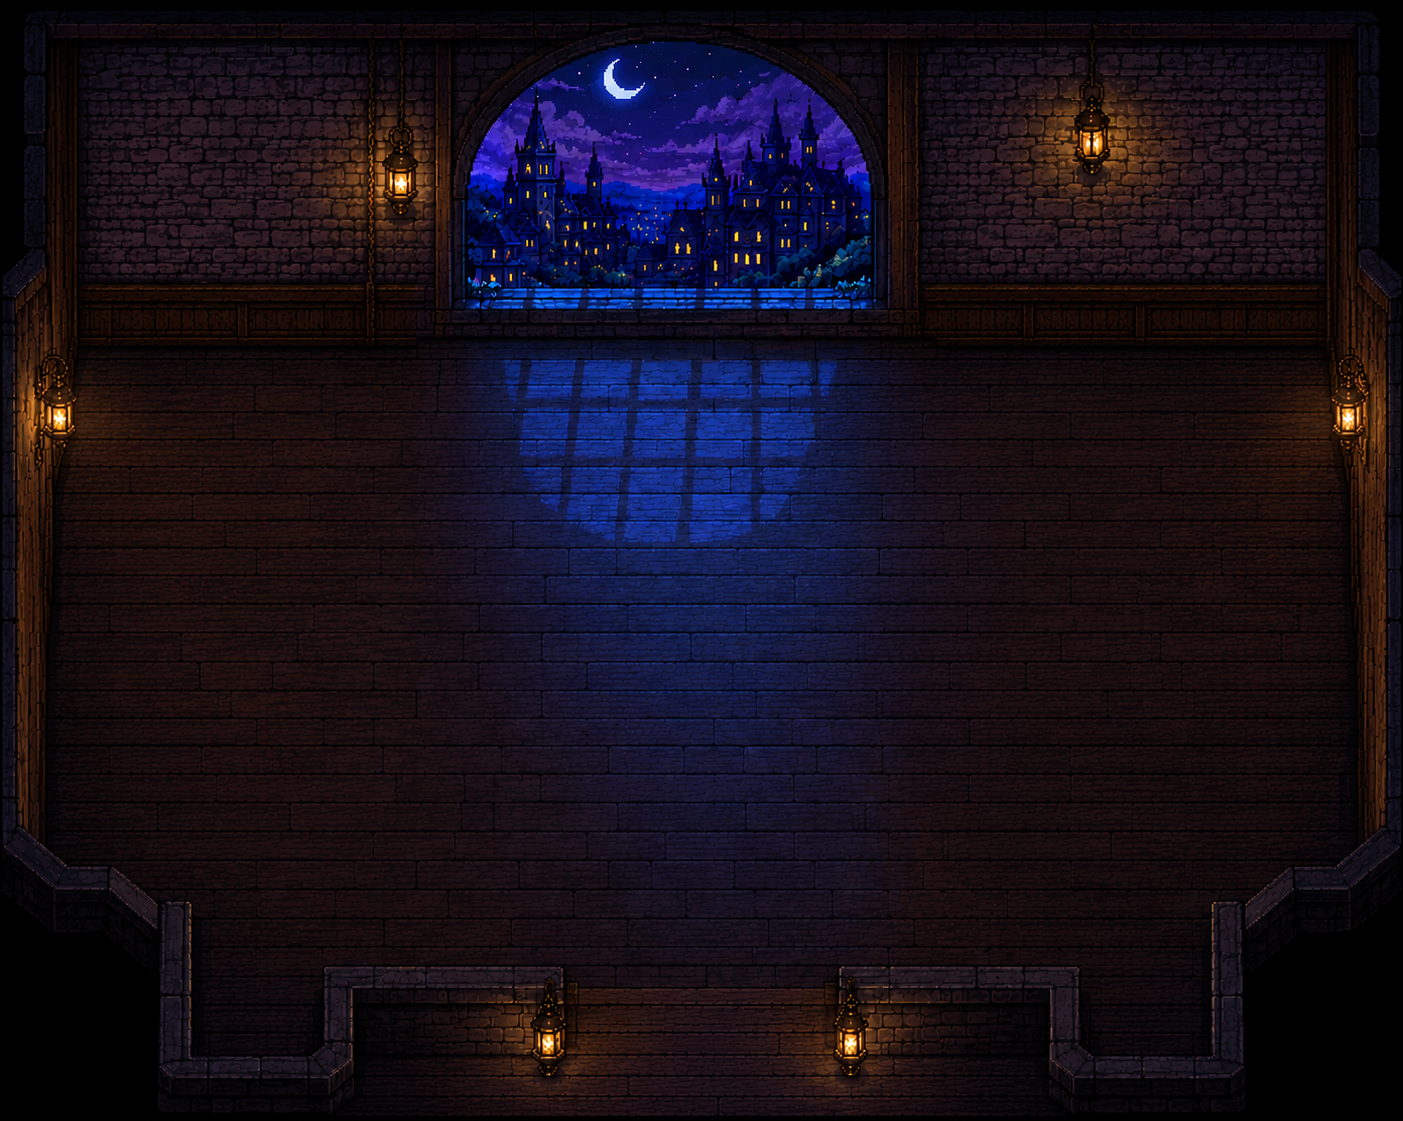
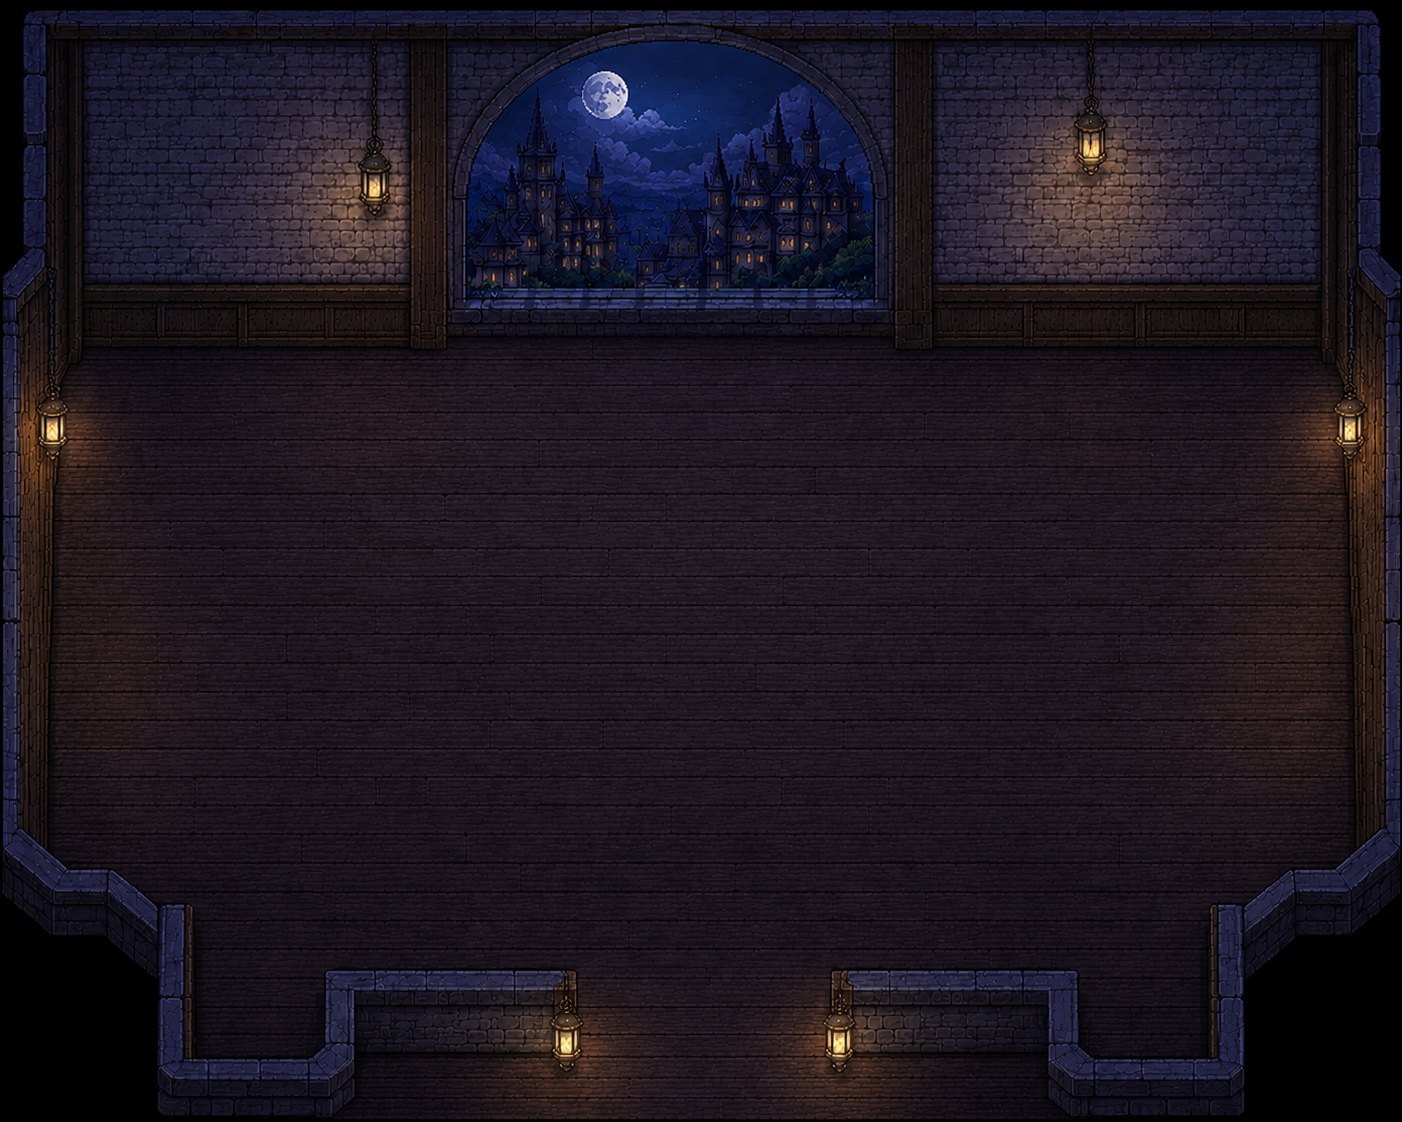
feat: add day/night sprite variants for lantern and fireplace furniture remove: lantern

Changed region(s): [[0.0, 0.0, 1.0, 0.9991], [0.3374, 0.3122, 0.6134, 0.7493]]

diff --git a/src/components/cafe/CafeCanvas.jsx b/src/components/cafe/CafeCanvas.jsx
@@ -21,8 +21,7 @@ export const FURNITURE_CATALOG = {
   chair_red:          { file: '12_chair_red.png',          w: 40,  h: 45,  sittable: true,  seatDx: 0, seatDy: 10 , solid: true },
   crate:              { file: '13_crate.png',              w: 40,  h: 40,  sittable: false , solid: true },
   dresser:            { file: '14_dresser.png',            w: 70,  h: 60,  sittable: false , solid: true },
-  fireplace:          { file: '15_fireplace.png',          w: 100, h: 80,  sittable: false , solid: true },
-  lantern:            { file: '16_lantern.png',            w: 30,  h: 40,  sittable: false , solid: true },
+  fireplace:          { file: '15_fireplace.png', nightFile: 'fireplace(off).png', w: 100, h: 80, sittable: false },
   nightstand:         { file: '18_nightstand.png',         w: 45,  h: 50,  sittable: false , solid: true },
   painting:           { file: '19_painting.png',           w: 50,  h: 40,  sittable: false , solid: false },
   plant_big:          { file: '20_plant_big.png',          w: 40,  h: 50,  sittable: false , solid: true },
@@ -218,6 +217,11 @@ export default function CafeCanvas() {
       const img = new Image();
       img.src = `/assets/decoration/${info.file}`;
       img.onload = () => { furnitureImages.current[type] = img; };
+      if (info.nightFile) {
+      const nightImg = new Image();
+      nightImg.src = `/assets/decoration/${info.nightFile}`;
+      nightImg.onload = () => { furnitureImages.current[`${type}_night`] = nightImg; };
+    }
     });
   }, []);
 
@@ -244,7 +248,11 @@ export default function CafeCanvas() {
 
       const { type, x, y, w, h, rotation } = furn;
 
-      const img = furnitureImages.current[type];
+      const isNight = state.cafe.timeOfDay === 'night';
+      const catalog = FURNITURE_CATALOG[type];
+      const img = (isNight && catalog?.nightFile)
+        ? (furnitureImages.current[`${type}_night`] ?? furnitureImages.current[type])
+        : furnitureImages.current[type];
 
       const rad = ((rotation ?? 0) * Math.PI) / 180;
 

diff --git a/src/components/cafe/DecoratePanel.jsx b/src/components/cafe/DecoratePanel.jsx
@@ -20,7 +20,6 @@ const PLACEABLE = [
   { type: 'crate',              label: 'Crate' },
   { type: 'dresser',            label: 'Dresser' },
   { type: 'fireplace',          label: 'Fireplace' },
-  { type: 'lantern',            label: 'Lantern' },
   { type: 'nightstand',         label: 'Nightstand' },
   { type: 'painting',           label: 'Painting' },
   { type: 'plant_big',          label: 'Plant Big' },